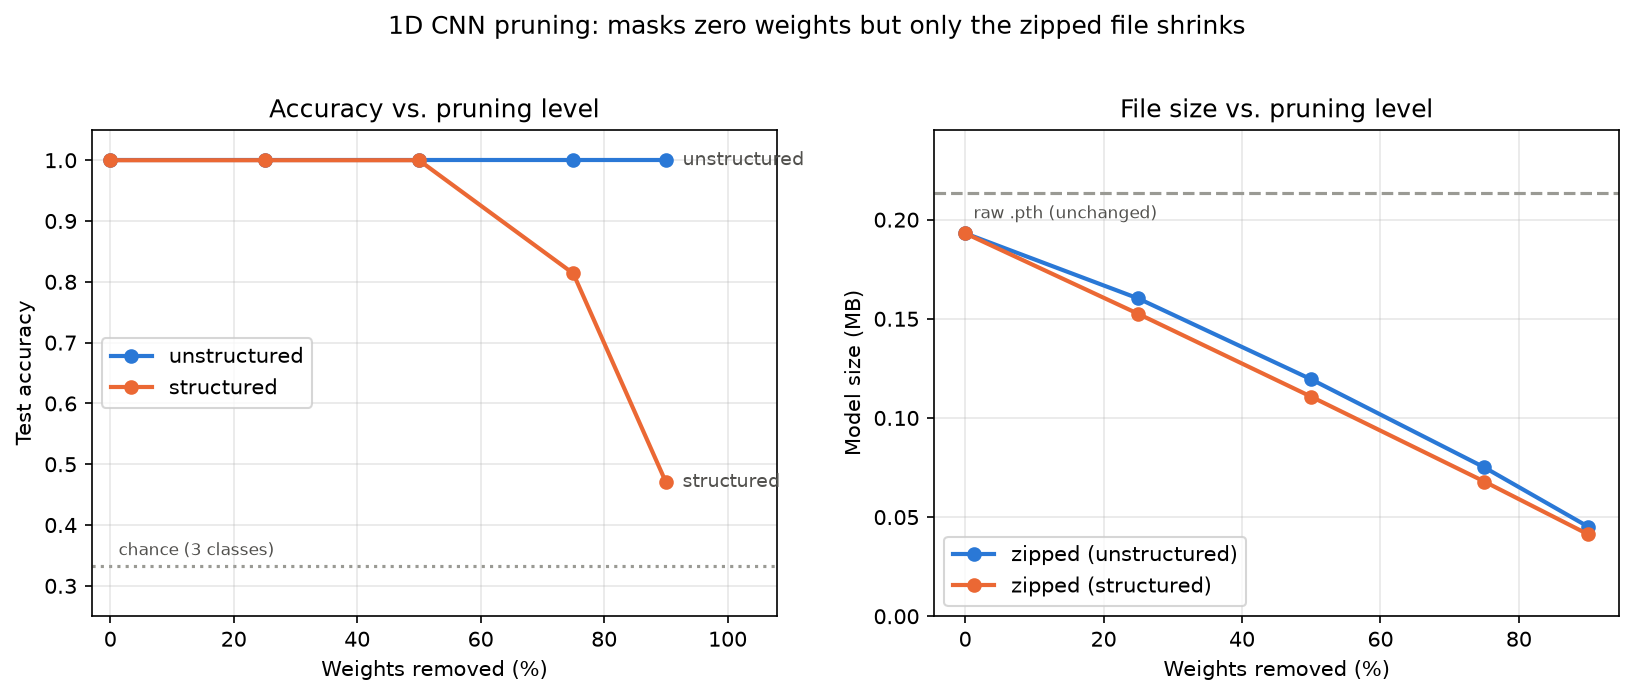
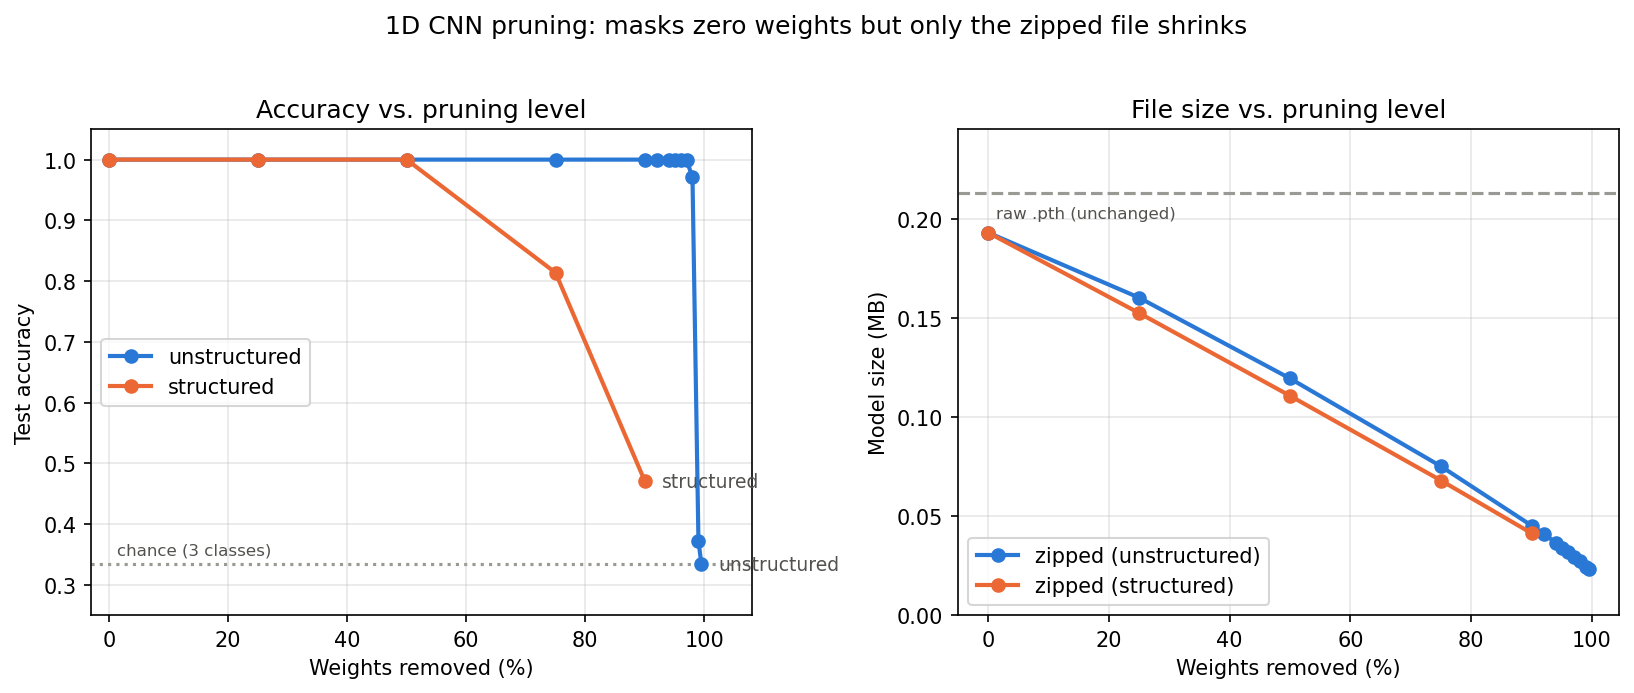
Push unstructured pruning past 90% to find the break point
Adds unstructured runs at 92-99.5% (experiment ids 10-17). Accuracy
holds at 100% through 97% and collapses at 98-99%. The write-up also
compares storage formats for the pruned weights.

diff --git a/results/pruning_writeup.md b/results/pruning_writeup.md
@@ -52,6 +52,67 @@ Fine-tuning mattered: before it, unstructured 75%/90% had fallen to 59%/67%
 validation accuracy and structured 50–90% to 33% (random chance). Fine-tuning
 recovered everything except structured 75% (→ 81%) and structured 90% (→ 48%).
 
+## Pushing unstructured past 90%: the break point
+
+Unstructured pruning was still at 100% at 90%, so the grid was extended until
+accuracy fell off (same pipeline: 15 fine-tune epochs at lr=1e-4).
+
+| Model | Weights left | Test accuracy | Val accuracy | Zipped (MB) |
+|---|---:|---:|---:|---:|
+| Unstructured 92% | ~4,000 | 100.0% | 100.0% | 0.041 |
+| Unstructured 94% | ~3,000 | 100.0% | 100.0% | 0.037 |
+| Unstructured 95% | ~2,500 | 100.0% | 100.0% | 0.034 |
+| Unstructured 96% | ~2,000 | 100.0% | 100.0% | 0.032 |
+| **Unstructured 97%** | **~1,500** | **100.0%** | **100.0%** | **0.030** |
+| Unstructured 98% | ~1,000 | 97.1% | 88.9% | 0.027 |
+| Unstructured 99% | ~500 | 37.3% | 48.1% | 0.024 |
+| Unstructured 99.5% | ~250 | 33.3% | 33.3% | 0.023 |
+
+("Weights left" counts the ~50,200 prunable Conv1d/Linear weights.)
+
+**The break point is between 97% and 98%.** Accuracy holds at 100% through
+97%, starts slipping at 98%, and collapses to chance at 99%. The margin at 97%
+is thin: its validation loss was 0.11 (vs 0.0007 at 92%) and was still falling
+at the last fine-tune epoch, so 97% sits right at the edge. Longer fine-tuning
+might push the break point slightly further.
+
+These rows are ids 10–17 in `experiments.csv`. Their latency was measured in a
+later session where the dense baseline itself ran at 1.13 ms, so latency is
+only comparable within that group (it was flat, ~1.0–1.15 ms, at every level).
+
+## Getting around "the zeros still take space"
+
+Mask-based pruning keeps every weight as a 4-byte float, zero or not. To turn
+the zeros into real savings, the model has to be stored or rebuilt
+differently. Measured on the saved checkpoints:
+
+| Storage format | Dense baseline | Unstr. 90% | Unstr. 97% |
+|---|---:|---:|---:|
+| Plain `.pth` (current) | 0.214 MB | 0.214 MB | 0.214 MB |
+| Zipped `.pth` (current) | 0.193 MB | 0.045 MB | 0.030 MB |
+| PyTorch sparse COO | 1.432 MB | 0.168 MB | 0.070 MB |
+| PyTorch sparse CSR | 0.620 MB | 0.077 MB | 0.035 MB |
+| Nonzero values + 1-bit mask | 0.227 MB | 0.046 MB | 0.032 MB |
+| Nonzero values + 1-bit mask, zipped | 0.194 MB | **0.030 MB** | **0.015 MB** |
+
+- **PyTorch's built-in sparse formats are a trap at this size.** They store a
+  64-bit index for every nonzero weight, so they are only smaller than dense at
+  very high sparsity, and never beat simply zipping.
+- **Storing only the nonzero values plus a 1-bit-per-weight mask** (which
+  weights survived) and zipping it is the smallest option: 0.030 MB at 90%
+  (~7× smaller than the dense `.pth`) and 0.015 MB at 97% (~14×). The model is
+  unpacked back to dense to run, so this saves storage/transfer, not compute.
+- **Physically removing structured-pruned filters** is the only route that
+  also makes the model faster: rebuild a narrower `BearingCNN` without the dead
+  filters. For structured 50% (which kept 100% accuracy) the layers become
+  8/16/32/48 channels instead of 16/32/64/96, about 13,200 parameters instead of
+  51,235, so a raw `.pth` around 4× smaller and far fewer multiplications. Not
+  implemented yet; note that a dead conv filter is followed by BatchNorm, which
+  turns its zero output into a constant, so that constant has to be folded into
+  the next layer's bias when the filter is removed.
+- **Quantization** (float32 → int8) shrinks every remaining weight 4×, and
+  stacks with either option above. That is the combined-compression step.
+
 ## Trade-off summary
 
 Unstructured pruning was essentially free on this task: even with 90% of
